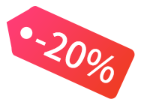
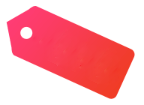
flx

Changed region(s): [[0.3056, 0.2857, 0.8056, 0.8], [0.25, 0.3714, 0.3333, 0.4286]]

diff --git a/src/pages/detail/index.vue b/src/pages/detail/index.vue
@@ -15,12 +15,13 @@
 						<img src="../../assets/detail/jb.png" />
 						<span>{{ data.price }}</span>
 					</div>
-					<div class="right" @click="btnClick((data.price * data.buynum * data.buyrebate) / 100)">
+					<div class="right" @click="btnClick((data.price * data.buynum * data.buyrebate) / 100)"
+					:style="data.buyrebate==100?'paddingTop:0.2rem':''">
 						<b class="text">開{{data.buynum}}個</b>
 						<img src="../../assets/detail/jb.png" />
 						<span>{{ (data.price * data.buynum * data.buyrebate) / 100 }}</span>
-						<i><img src="../../assets/detail/tip.png" /></i>
-						<em>原價{{ data.price * data.buynum }}</em>
+						<div class="i" v-if="data.buyrebate<100"><img src="../../assets/detail/tip.png" /><i>-{{100-data.buyrebate}}%</i></div>
+						<em v-if="data.buyrebate<100">原價{{ data.price * data.buynum }}</em>
 					</div>
 				</div>
 				<div class="down">
@@ -48,7 +49,7 @@
 				</b>
 			</div>
 		</div>
-		<div class="pop pop2" v-show="pop2">
+		<div class="pop pop2" v-if="pop2">
 			<div class="pop_body">
 				<img src="../../assets/detail/titlepop.png" class="title" />
 				<img src="../../assets/detail/close.png" class="close" @click="hide('pop2')" />
@@ -72,7 +73,7 @@
 					</div>
 				</div>
 				<div v-else>
-					<div class="imgbg animated ntop"><img src="../../assets/detail/guang.png" /></div>
+					<div class="imgbg animated ntop" v-if="false"><img src="../../assets/detail/guang.png" /></div>
 					<div class="popList">
 						<div v-for="(item, id) in popData" :class="'animated bounceIn delay' + id">
 							<img :src="item.icon" />
@@ -206,6 +207,19 @@ export default {
 .delay4 {
 	animation-delay: 1.2s;
 }
+.delay5 {
+	animation-delay: 1.4s;
+}
+.delay6 {
+	animation-delay: 1.6s;
+}
+.delay7 {
+	animation-delay: 1.8s;
+}
+.delay8 {
+	animation-delay: 2s;
+}
+
 .text{
     position: absolute;
     left: 0.1rem;
@@ -382,9 +396,16 @@ export default {
 	}
 }
 .popList {
-	width: 100%;
+	width: 660px;
+	height: 727px;
+	margin: 0 auto .26rem;
+	overflow: auto;
 	box-sizing: border-box;
-	padding: 40px 50px 90px;
+	padding: 13px;
+
+	
+	background-color: rgba(82, 82, 82, 0.8);
+	
 	display: flex;
 	justify-content: center;
 	flex-wrap: wrap;
@@ -527,7 +548,7 @@ export default {
 			align-items: center;
 			background: url(../../assets/detail/p2.png) no-repeat 0 0;
 			background-size: 100%;
-			i {
+			.i {
 				position: absolute;
 				top: -29px;
 				right: -20px;
@@ -535,6 +556,15 @@ export default {
 				img {
 					width: 100%;
 				}
+			}
+			i{
+				position: absolute;
+				   top: .28rem;
+				       left: .36rem;
+				       display: block;
+				       font-style: normal;
+				       font-size: .28rem;
+				    transform: rotate(26deg);
 			}
 			em {
 				position: absolute;

diff --git a/src/pages/task/index.vue b/src/pages/task/index.vue
@@ -4,26 +4,29 @@
 			<div :class="show ? 'task animated fadeOutDown' : 'task animated fadeInUp'">
 				<div class="close" @click="close"><img src="../../assets/task/close.png" /></div>
 				<h3>獲取哈哈幣任務</h3>
+				<div class="mh">
+					<dl v-for="(item, id) in data">
+						<dt><img :src="item.icon" /></dt>
+						<dd>
+							<h5>{{ item.name }}</h5>
+							<span>
+								<strong><em :style="`width:${(item.nowfinish / item.targetfinish) * 100}%`"></em></strong>
+								<i>{{ item.nowfinish }}/{{ item.targetfinish }}</i>
+							</span>
+							<p>
+								獲得：
+								<img src="../../assets/detail/jb.png" />
+								+{{ item.prizeremark }}
+							</p>
+							<b @click="dotask(item)" :class="item.status > 1 ? 'curr' : ''">
+								<h4 class="animated fadeInUp1 infinite" v-show="item.taskid == 3||item.taskid == 2">每日上限{{ item.targetfinish }}個</h4>
+								{{ item.btn_name }}
+							</b>
+						</dd>
+					</dl>
+				</div>
 
-				<dl v-for="(item, id) in data">
-					<dt><img :src="item.icon" /></dt>
-					<dd>
-						<h5>{{ item.name }}</h5>
-						<span>
-							<strong><em :style="`width:${(item.nowfinish / item.targetfinish) * 100}%`"></em></strong>
-							<i>{{ item.nowfinish }}/{{ item.targetfinish }}</i>
-						</span>
-						<p>
-							獲得：
-							<img src="../../assets/detail/jb.png" />
-							+{{ item.prizeremark }}
-						</p>
-						<b @click="dotask(item)" :class="item.status > 1 ? 'curr' : ''">
-							<h4 class="animated fadeInUp1 infinite" v-show="item.taskid == 3||item.taskid == 2">每日上限{{ item.targetfinish }}個</h4>
-							{{ item.btn_name }}
-						</b>
-					</dd>
-				</dl>
+				
 			</div>
 		</div>
 		<div class="pop" v-show="ewm">
@@ -370,12 +373,17 @@ export default {
 	bottom: 0;
 	z-index: 55;
 	width: 100%;
-
+	max-height: 60vh;
+	
 	box-sizing: border-box;
 	padding: 90px 35px 34px;
 
 	background: linear-gradient(180deg, #ebe3cb 1%, #e0efc9 100%);
 	border-radius: 32px 32px 0px 0px;
+	.mh{
+		height: calc(60vh - 230px);
+		overflow: auto;
+	}
 	.close {
 		position: absolute;
 		top: 36px;

diff --git a/src/serve/index.js b/src/serve/index.js
@@ -28,7 +28,7 @@ const serve = axios.create({
 axios.interceptors.request.use(config => {
 	// 在发送请求之前做些什么
 	console.log('config----',config)
-	if(config.url.indexOf('mystery_buyfive')>=0 || config.url.indexOf('mystery_buyone')>=0){
+	if(config.url.indexOf('mystery_buyn')>=0 || config.url.indexOf('mystery_buyone')>=0){
 		document.getElementsByClassName('hezi')[0].style.display='block';
 	}else{
 		document.getElementsByClassName('loading')[0].style.display='block';
